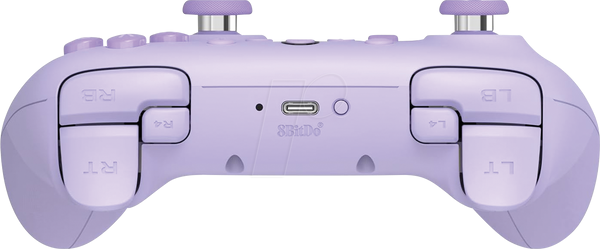
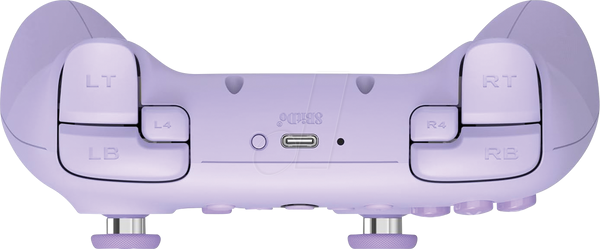
Update arcade catalog

diff --git a/showcase/Control_Test/sketch.js b/showcase/Control_Test/sketch.js
@@ -40,59 +40,56 @@ function draw() {
   // =================================================================
   drawCard(20, 68, 500, 480, "FRONT VIEW");
   
-  // Draw front controller photo centered inside left card
   let fX = 45, fY = 100, fW = 450, fH = 420;
   image(imgFront, fX, fY, fW, fH);
 
-  // --- Center System Buttons ---
-  // (-) View Button [8]
-  drawOverlayPin(fX + fW * 0.355, fY + fH * 0.305, 32, input.select(), "(-)\nEsc");
-  // (+) Menu Button [9]
-  drawOverlayPin(fX + fW * 0.635, fY + fH * 0.305, 32, input.start(), "(+)\nEnter");
-  // Home / Guide Button [16]
-  drawOverlayPin(fX + fW * 0.495, fY + fH * 0.310, 38, input.home(), "HOME\n[16] / H");
+  // --- Center System Buttons (Dialed in to match physical buttons) ---
+  drawOverlayPin(fX + fW * 0.362, fY + fH * 0.352, 32, input.select(), "(-)\nEsc");
+  drawOverlayPin(fX + fW * 0.638, fY + fH * 0.352, 32, input.start(),  "(+)\nEnter");
+  drawOverlayPin(fX + fW * 0.500, fY + fH * 0.358, 38, input.home(),   "HOME\n[16] / H");
 
   // Hardware-Only Buttons (Square Profile & Star Mapping)
-  drawHardwareNote(fX + fW * 0.435, fY + fH * 0.425, "■\nHW");
-  drawHardwareNote(fX + fW * 0.565, fY + fH * 0.425, "★\nMap");
+  drawHardwareNote(fX + fW * 0.433, fY + fH * 0.432, "■\nHW");
+  drawHardwareNote(fX + fW * 0.567, fY + fH * 0.432, "★\nMap");
 
   // --- ABXY Face Buttons ---
-  drawOverlayPin(fX + fW * 0.790, fY + fH * 0.340, 38, input.y(), "Y\n(I)");       // Top
-  drawOverlayPin(fX + fW * 0.720, fY + fH * 0.430, 38, input.x(), "X\n(J)");       // Left
-  drawOverlayPin(fX + fW * 0.865, fY + fH * 0.430, 38, input.b(), "B\n(L)");       // Right
-  drawOverlayPin(fX + fW * 0.795, fY + fH * 0.515, 38, input.a(), "A\nSpace");   // Bottom
+  drawOverlayPin(fX + fW * 0.793, fY + fH * 0.362, 38, input.y(), "Y\n(I)");        // Top
+  drawOverlayPin(fX + fW * 0.722, fY + fH * 0.448, 38, input.x(), "X\n(J)");        // Left
+  drawOverlayPin(fX + fW * 0.866, fY + fH * 0.448, 38, input.b(), "B\n(L)");        // Right
+  drawOverlayPin(fX + fW * 0.795, fY + fH * 0.532, 38, input.a(), "A\nSpace/K");    // Bottom
 
   // --- D-Pad ---
-  drawOverlayPin(fX + fW * 0.320, fY + fH * 0.535, 28, input.up(),    "▲\nW");
-  drawOverlayPin(fX + fW * 0.320, fY + fH * 0.675, 28, input.down(),  "▼\nS");
-  drawOverlayPin(fX + fW * 0.255, fY + fH * 0.605, 28, input.left(),  "◄\nA");
-  drawOverlayPin(fX + fW * 0.385, fY + fH * 0.605, 28, input.right(), "►\nD");
+  drawOverlayPin(fX + fW * 0.352, fY + fH * 0.558, 28, input.up(),    "▲\nW");
+  drawOverlayPin(fX + fW * 0.352, fY + fH * 0.688, 28, input.down(),  "▼\nS");
+  drawOverlayPin(fX + fW * 0.285, fY + fH * 0.623, 28, input.left(),  "◄\nA");
+  drawOverlayPin(fX + fW * 0.418, fY + fH * 0.623, 28, input.right(), "►\nD");
 
   // --- Analog Sticks (Live movement + L3/R3 click) ---
   let lStick = input.leftStick();
-  drawStickOverlay(fX + fW * 0.185, fY + fH * 0.415, 64, lStick.x, lStick.y, input.l3(), "L3 (F)");
+  drawStickOverlay(fX + fW * 0.192, fY + fH * 0.432, 64, lStick.x, lStick.y, input.l3(), "L3 (F)");
 
   let rStick = input.rightStick();
-  drawStickOverlay(fX + fW * 0.630, fY + fH * 0.615, 64, rStick.x, rStick.y, input.r3(), "R3 (R)");
+  drawStickOverlay(fX + fW * 0.635, fY + fH * 0.632, 64, rStick.x, rStick.y, input.r3(), "R3 (R)");
 
   // =================================================================
-  // RIGHT PANEL: TOP EDGE PHOTO OVERLAY & LEGEND (x: 540..940)
+  // RIGHT PANEL: TOP EDGE PHOTO OVERLAY (ROTATED 180°) & LEGEND
   // =================================================================
-  drawCard(540, 68, 400, 260, "TOP EDGE VIEW (LOOKING FROM FRONT)");
+  drawCard(540, 68, 400, 260, "TOP EDGE VIEW");
 
   let tX = 560, tY = 110, tW = 360, tH = 155;
   image(imgTop, tX, tY, tW, tH);
 
-  // Note: Photo shows controller facing viewer, so Right side (RB/RT/R4) is on Left!
-  // Right Side Triggers/Bumpers (Left side of photo)
-  drawOverlayRect(tX + tW * 0.205, tY + tH * 0.43, 74, 34, input.rb(), "RB (E)");
-  drawOverlayRect(tX + tW * 0.165, tY + tH * 0.68, 52, 42, input.rt(), "RT (Ctrl)");
-  drawOverlayRect(tX + tW * 0.275, tY + tH * 0.62, 34, 28, input.r4(), "R4\n(C)");
+  // With top.png rotated 180°, Left is on Left and Right is on Right:
+  // Triggers (LT/RT) sit along the upper edge; Bumpers (LB/RB) & L4/R4 sit below them.
+  // Left Shoulder Cluster (Left side of rotated image)
+  drawOverlayRect(tX + tW * 0.165, tY + tH * 0.32, 54, 40, input.lt(), "LT (Shift)");
+  drawOverlayRect(tX + tW * 0.205, tY + tH * 0.57, 74, 34, input.lb(), "LB (Q)");
+  drawOverlayRect(tX + tW * 0.275, tY + tH * 0.38, 34, 28, input.l4(), "L4\n(Z)");
 
-  // Left Side Triggers/Bumpers (Right side of photo)
-  drawOverlayRect(tX + tW * 0.795, tY + tH * 0.43, 74, 34, input.lb(), "LB (Q)");
-  drawOverlayRect(tX + tW * 0.835, tY + tH * 0.68, 52, 42, input.lt(), "LT (Shift)");
-  drawOverlayRect(tX + tW * 0.725, tY + tH * 0.62, 34, 28, input.l4(), "L4\n(Z)");
+  // Right Shoulder Cluster (Right side of rotated image)
+  drawOverlayRect(tX + tW * 0.835, tY + tH * 0.32, 54, 40, input.rt(), "RT (Ctrl)");
+  drawOverlayRect(tX + tW * 0.795, tY + tH * 0.57, 74, 34, input.rb(), "RB (E)");
+  drawOverlayRect(tX + tW * 0.725, tY + tH * 0.38, 34, 28, input.r4(), "R4\n(C)");
 
   // --- LEGEND / NOTES CARD (Bottom Right) ---
   drawCard(540, 344, 400, 204, "ARCADE & HARDWARE NOTES");
@@ -101,7 +98,7 @@ function draw() {
   textAlign(LEFT, TOP);
   textSize(12);
   let notes = [
-    "• Exit Game: (-) SELECT [8] or HOME [16] (Debian) / ESC",
+    "• Exit Game: Press (-) SELECT [8] or ESC.",
     "• Star (★) Button: Hardware-only macro mapper.",
     "   Hold L4/R4 + any button, then press ★ to bind.",
     "• Square (■) Button: Switches onboard profiles.",
@@ -147,7 +144,7 @@ function drawOverlayPin(x, y, size, isPressed, label) {
   fill(isPressed ? 0 : 255);
   noStroke();
   textAlign(CENTER, CENTER);
-  textSize(8.5);
+  textSize(8);
   textStyle(BOLD);
   text(label, x, y);
   pop();
